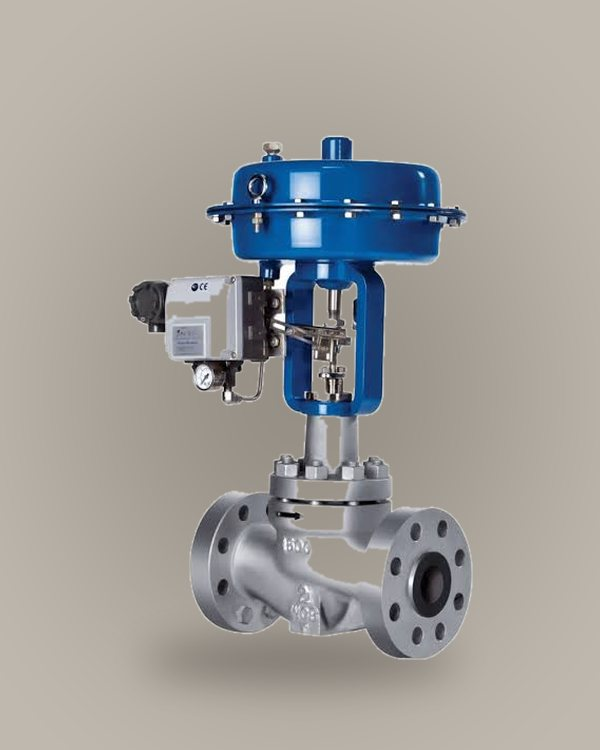
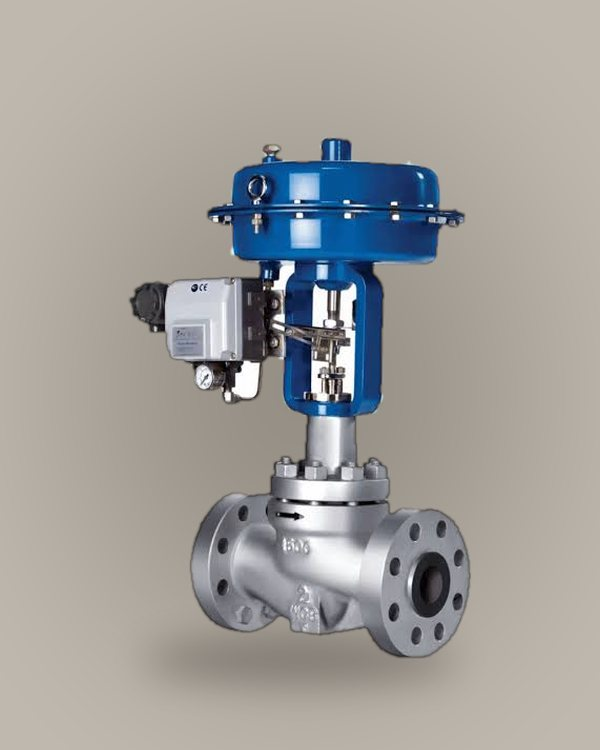
fix: recorte da válvula de controle sem buracos nem auréola branca
Claude-Session: https://claude.ai/code/session_013ZMvq2bHW9JtzL1E6y2RJy

diff --git a/index.html b/index.html
@@ -10,8 +10,8 @@
   <link rel="preconnect" href="https://fonts.googleapis.com" />
   <link rel="preconnect" href="https://fonts.gstatic.com" crossorigin />
   <link href="https://fonts.googleapis.com/css2?family=Barlow+Condensed:wght@500;600;700&family=Barlow:wght@400;500;600&display=swap" rel="stylesheet" />
-  <link rel="stylesheet" href="css/style.css?v=20261101j" />
-  <link rel="stylesheet" href="css/movimento.css?v=20261101j" />
+  <link rel="stylesheet" href="css/style.css?v=20261101k" />
+  <link rel="stylesheet" href="css/movimento.css?v=20261101k" />
   <script>
     // Se main.js não carregar em 3 s, devolve o conteúdo sem as entradas animadas.
     document.documentElement.classList.add("js");
@@ -741,11 +741,11 @@
     <svg viewBox="0 0 24 24" width="28" height="28" aria-hidden="true"><path fill="currentColor" d="M12 2a10 10 0 0 0-8.6 15.1L2 22l5-1.3A10 10 0 1 0 12 2Zm0 18.2a8.2 8.2 0 0 1-4.2-1.2l-.3-.2-3 .8.8-2.9-.2-.3A8.2 8.2 0 1 1 12 20.2Zm4.5-6.1c-.2-.1-1.5-.7-1.7-.8s-.4-.1-.6.1-.6.8-.8 1-.3.2-.5 0a6.7 6.7 0 0 1-3.3-2.9c-.3-.4.2-.4.6-1.3a.4.4 0 0 0 0-.4l-.8-1.9c-.2-.5-.4-.4-.6-.4h-.5a1 1 0 0 0-.7.3 3 3 0 0 0-.9 2.2 5.2 5.2 0 0 0 1.1 2.7 11.8 11.8 0 0 0 4.5 4c1.7.7 2.3.8 3.2.6a2.7 2.7 0 0 0 1.8-1.3 2.2 2.2 0 0 0 .2-1.2c-.1-.2-.3-.3-.6-.4Z"/></svg>
   </a>
 
-  <script src="js/engenharia.js?v=20261101j"></script>
-  <script src="js/whatsapp.js?v=20261101j"></script>
-  <script src="js/interativo.js?v=20261101j"></script>
-  <script src="js/main.js?v=20261101j"></script>
+  <script src="js/engenharia.js?v=20261101k"></script>
+  <script src="js/whatsapp.js?v=20261101k"></script>
+  <script src="js/interativo.js?v=20261101k"></script>
+  <script src="js/main.js?v=20261101k"></script>
   <script src="js/vendor/motion-14.3.0.min.js"></script>
-  <script src="js/movimento.js?v=20261101j"></script>
+  <script src="js/movimento.js?v=20261101k"></script>
 </body>
 </html>
